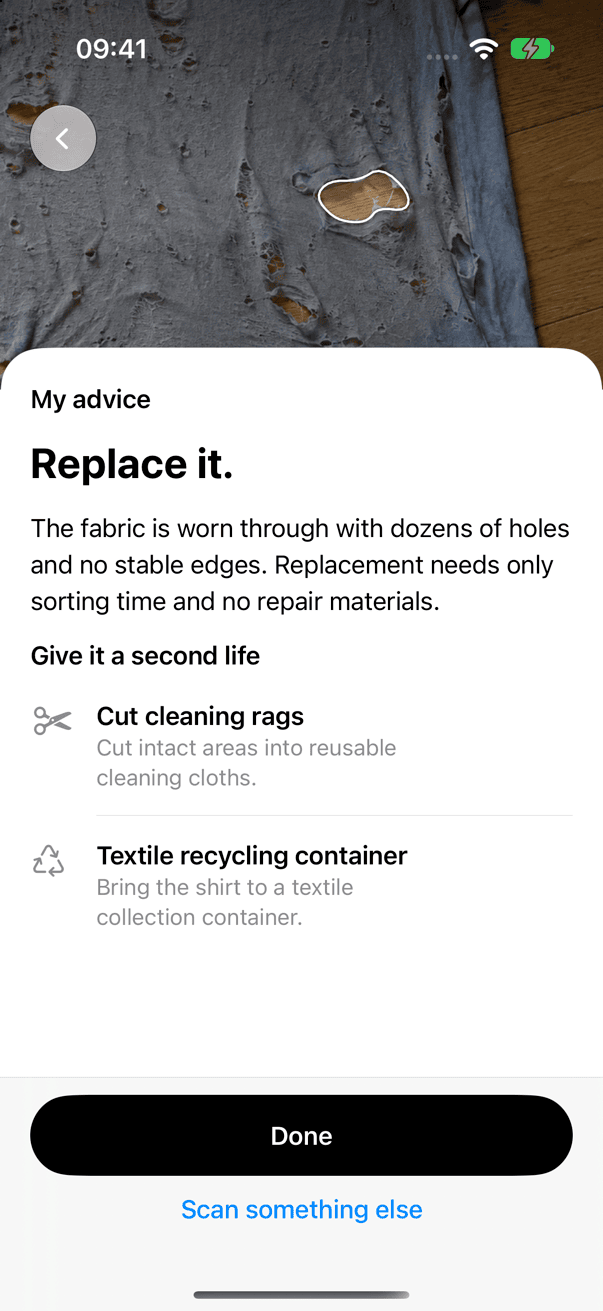
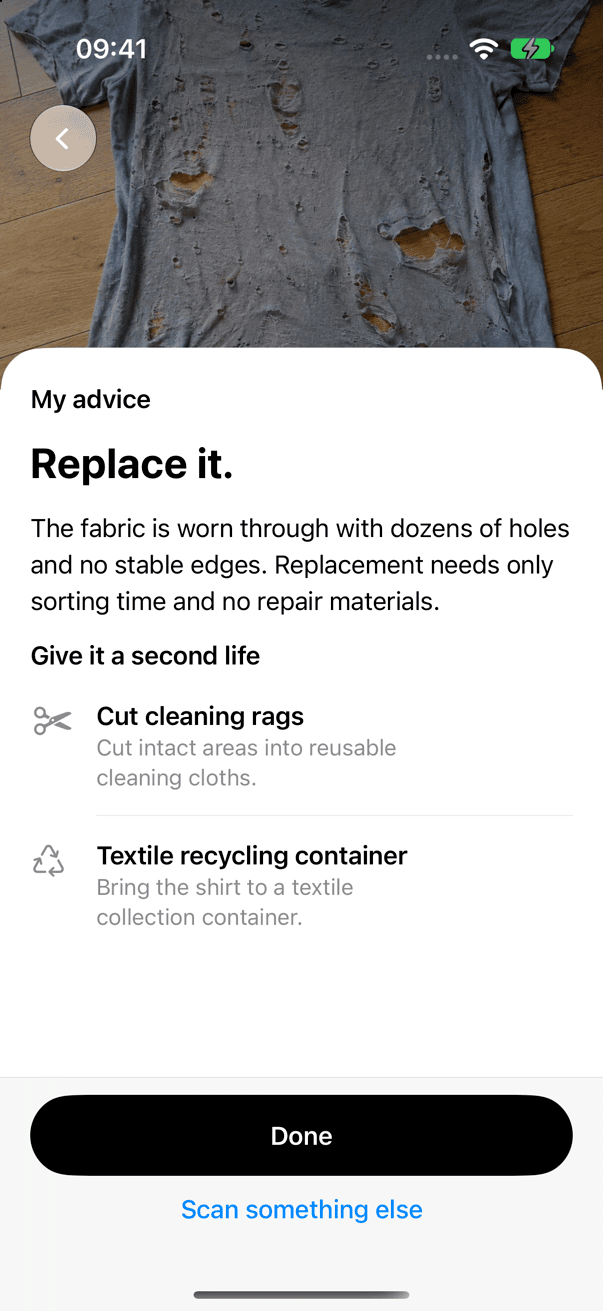
ios: Replace-Urteil ohne Teilmaske (Shirt mit Dutzenden Löchern)

diff --git a/ios/RepairAssistant/Views/DecisionView.swift b/ios/RepairAssistant/Views/DecisionView.swift
@@ -129,7 +129,8 @@ struct DecisionView: View {
                     }
                     .transition(.opacity)
                 } else {
-                    MarkedPhoto(image: photo, segments: r.segments, showLabels: r.decision?.recommendation != .replace, showDimension: true, labelTopInset: 110, focus: DamageFocus.region(for: r.segments))
+                    // Replace: a mask on one of dozens of holes misleads (jury 8), so the photo stays unmarked.
+                    MarkedPhoto(image: photo, segments: r.decision?.recommendation == .replace ? [] : r.segments, showLabels: r.decision?.recommendation != .replace, showDimension: r.decision?.recommendation != .replace, labelTopInset: 110, focus: r.decision?.recommendation == .replace ? nil : DamageFocus.region(for: r.segments))
                         .transition(.opacity)
                 }
             } else {
